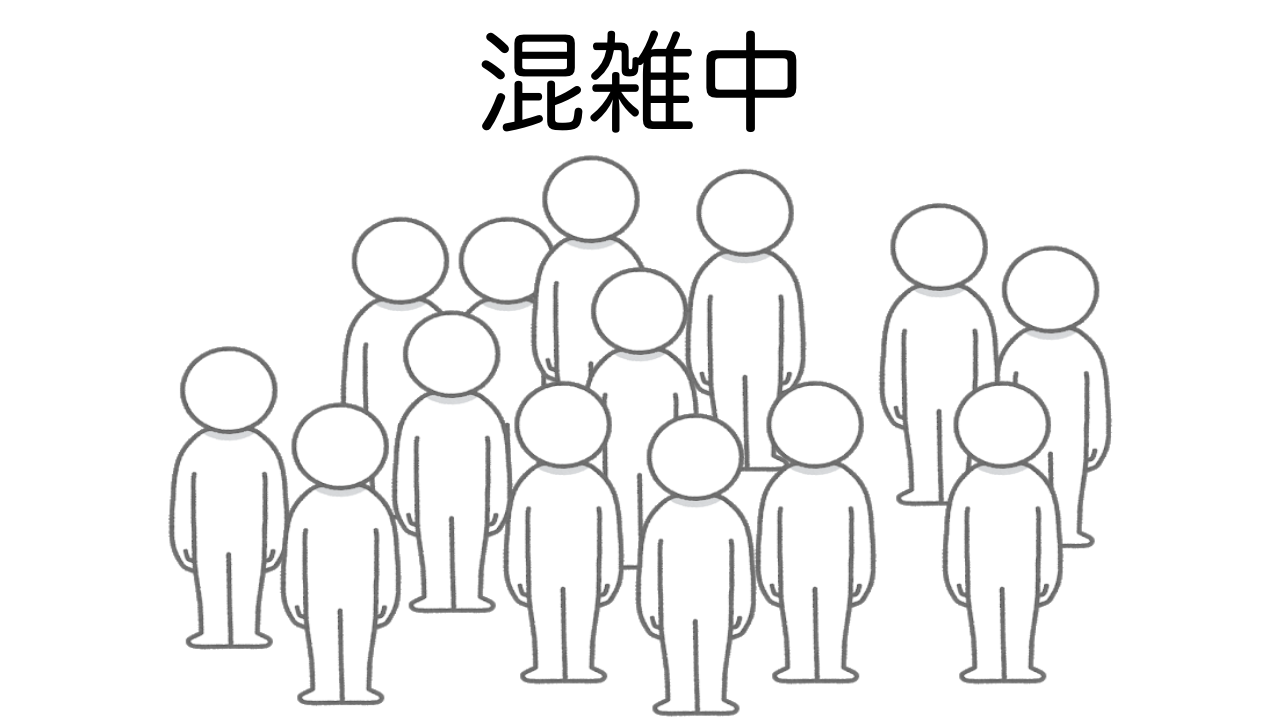
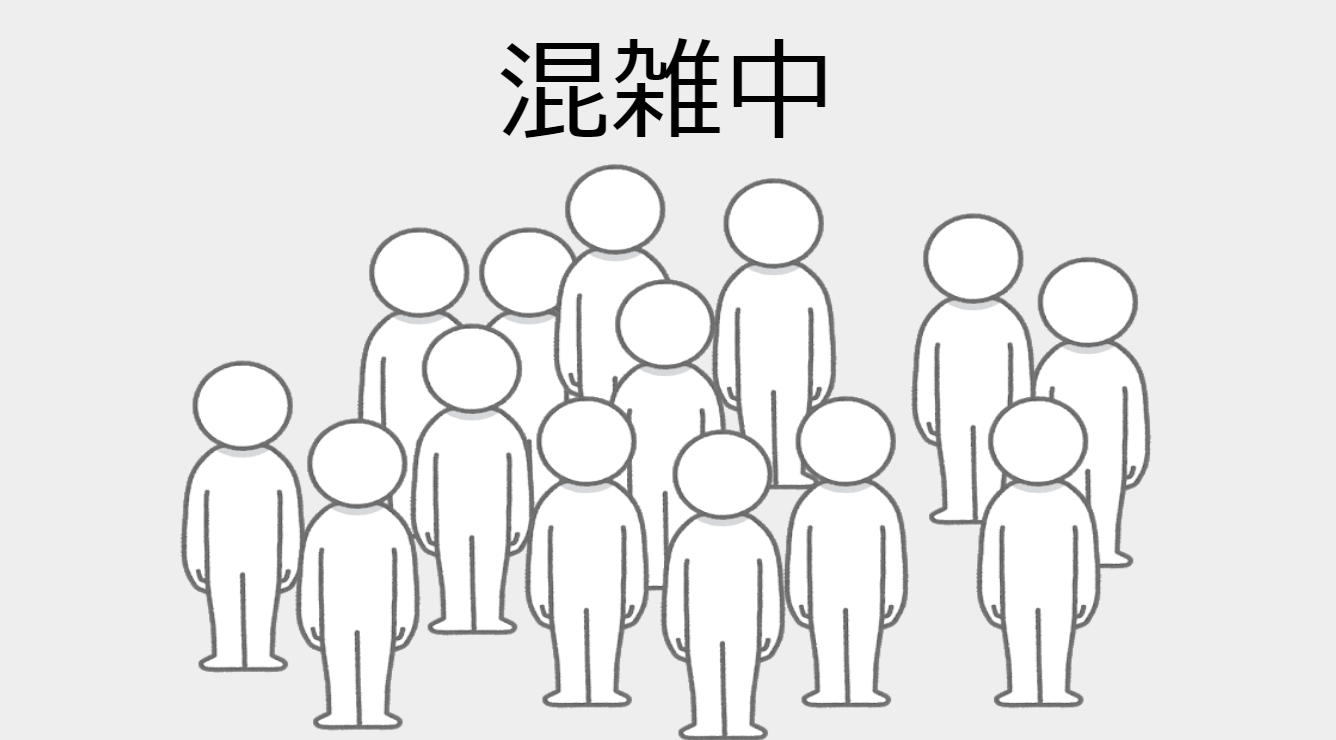
レスポンシブに画像を表示できるようにした

Changed region(s): [[0.1242, 0.2133, 0.8696, 1.0], [0.3727, 0.0305, 0.6211, 0.1828], [0.6522, 0.7922, 0.6832, 0.8837]]

diff --git a/app/templates/index.html b/app/templates/index.html
@@ -5,28 +5,19 @@
     <meta name="viewport" content="width=device-width, initial-scale=1">
     <title>混雑度チェッカー</title><!--titleはタブの名前(Webページのタイトル)-->
     <!-- cssの読み込み -->
-    <link rel="stylesheet" href="static/css/style.css">
+    <link rel="stylesheet" href="/css/style.css">
+    <link rel="stylesheet" href="static/css/style.css" media="screen">
+    <link rel="stylesheet" href="https://use.fontawesome.com/releases/v5.12.1/css/all.css">
 </head>
 <body>
     <form method="post">
         <h1 class="text-muted">デバイス数:{{count}}</h1>
     </form>
     <div>
-        {% if count %}
-		    {% if count>60 %}
-                <img src="../static/images/empty.png"width="400" height="200">
-		    {% elif count<=60 %}
-		        <img src="../static/images/little_empty.png"width="400" height="200">
-		    {% else %}
-		        <img src="../static/images/crowded.png"width="400" height="200">
-		    {% endif %}
-	    {% endif %}
-    </div>
-    <div>
         <details>
-            <summary>マップ</summary>
+            <summary><i class="fas fa-map-marked-alt"></i> マップ</summary>
             <div>
-                <img src="../static/images/crowded.png"width="400" height="200">
+                <img src="../static/images/little_empty.png">
             </div>
         </details>
     </div>
@@ -36,13 +27,13 @@
         <h1 class="text-muted">デバイス数:{{count2}}</h1>
     </form>
     <div>
-        <img src="../static/images/crowded.png"width="400" height="200">
+        <img src="../static/images/empty.png">
     </div>
     <div>
         <details>
-            <summary>マップ</summary>
+            <summary><i class="fas fa-map-marked-alt"></i> マップ</summary>
             <div>
-                <img src="../static/images/crowded.png"width="400" height="200">
+                <img src="../static/images/crowded.png" secrlset="image-sp.jpg 480w, image-tablet.jpg 640w, image-pc 960w">
             </div>
         </details>
     </div>

diff --git a/app/static/css/style.css b/app/static/css/style.css
@@ -1,29 +1,46 @@
 body{
-    background: #eeeeee;
+    background: #EEEEEE;
 }
 h1{
     text-align: center;
 }
+
+@media screen and (min-width:768px){
+  img{
+    width: 600px;
+    height: 300px;
+  }
+}
+
+@media screen and (max-width: 479px){
+  img{
+    width: 300px;
+    height: 150px;
+  }
+}
+
+
 div{
     text-align: center;
 }
 
 details {
     border: 1px solid #ccc;
+    box-shadow: 0px 1px 1px -1px rgba(0,0,0,0.5);
   }
   details:not(:last-child) {
     margin-bottom: 20px;
   }
-  
 
   details summary {
     list-style: none;
     cursor: pointer;
     padding: 20px;
-    background: #e4e4e4;
+    background: #fafafa;
     color: #242323;
     font-size: 2rem;
     font-weight: bold;
+    
   }
 
   details summary::-webkit-details-marker {
